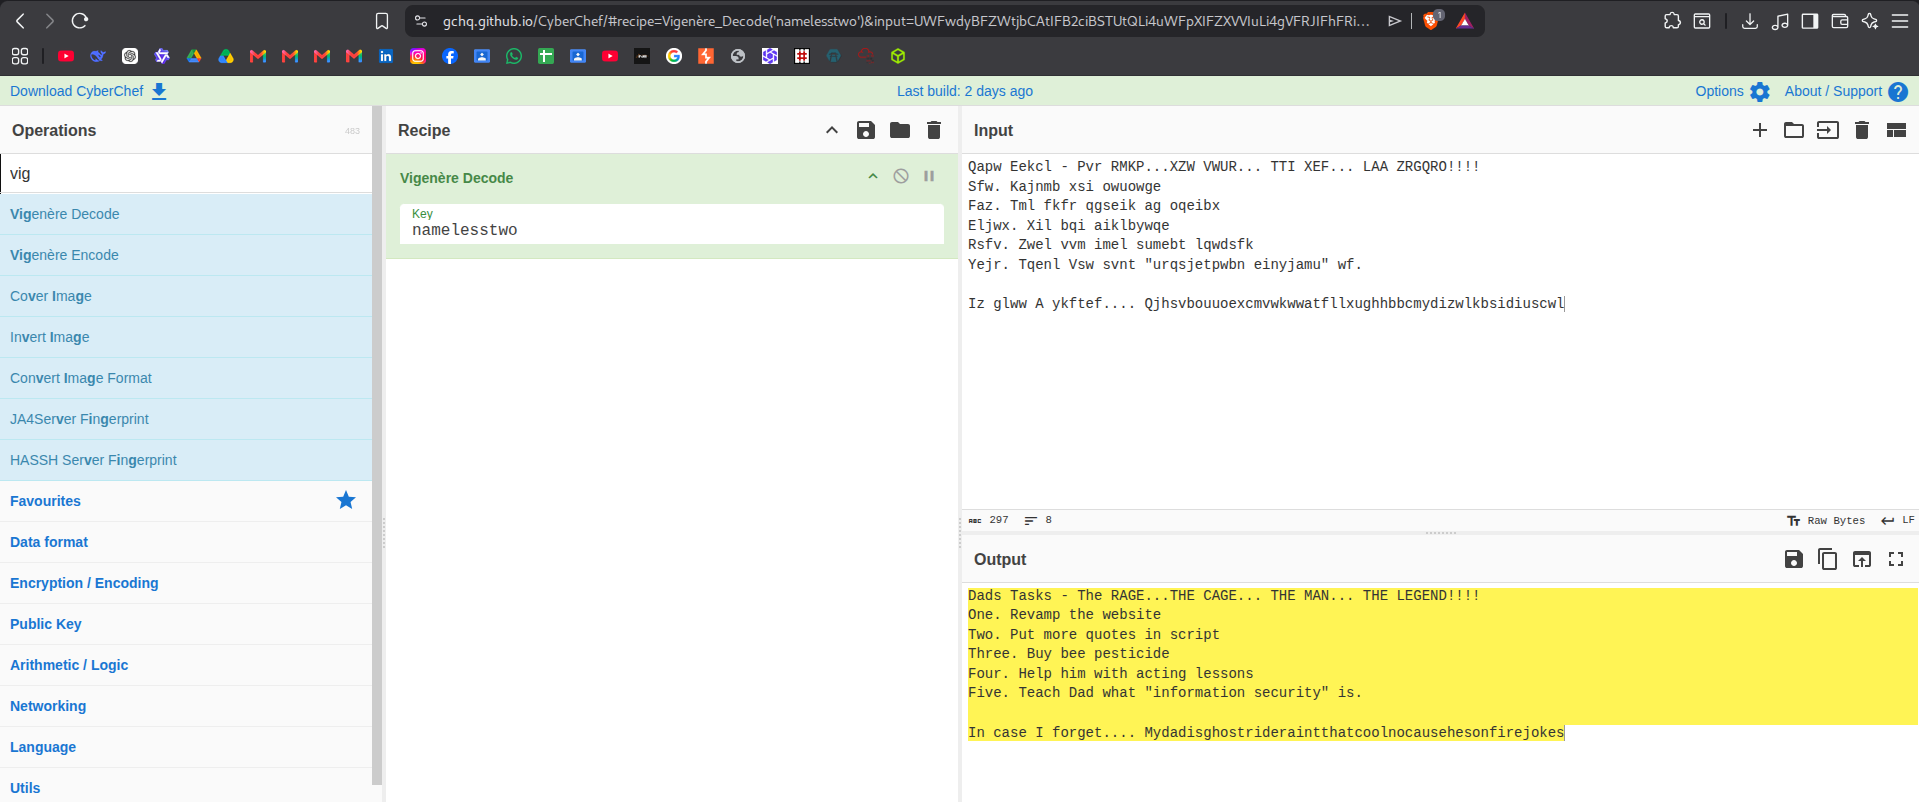
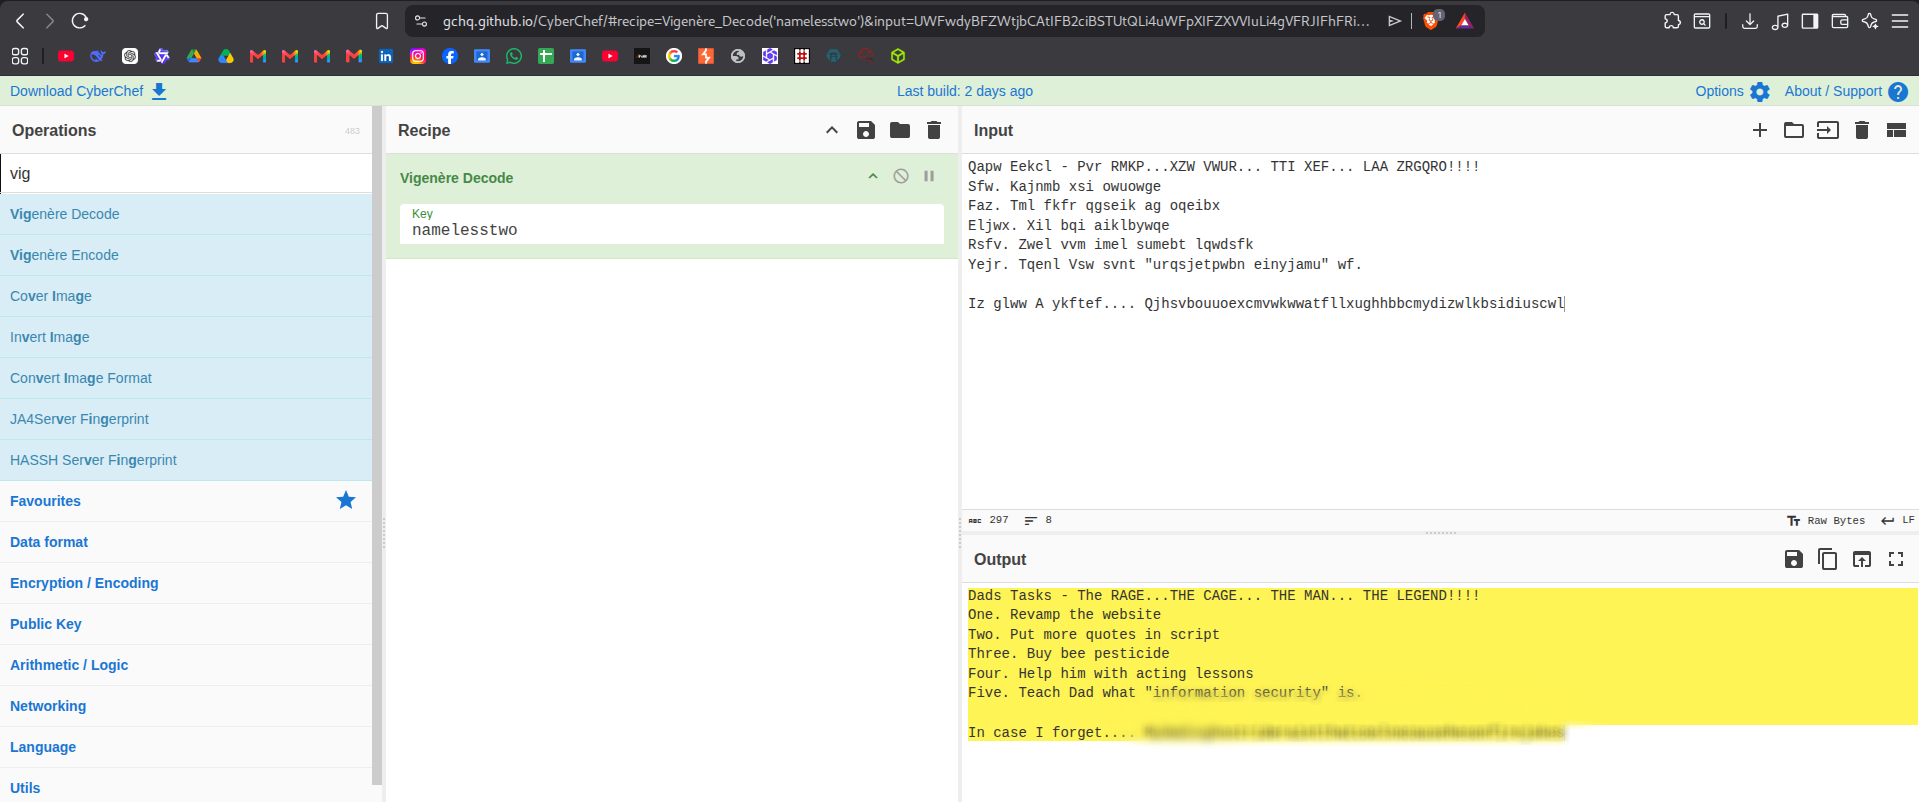
Publish Break Out The Cage

Changed region(s): [[0.5842, 0.904, 0.8301, 0.9352], [0.6149, 0.8416, 0.6764, 0.8728]]

diff --git a/Challenges/Break Out The Cage/README.md b/Challenges/Break Out The Cage/README.md
@@ -82,10 +82,6 @@ Success!
 
 ![](images/Pasted%20image%2020260624152933.png)
 
-The decrypted password is:
-
-> **Mydadisghostrideraintthatcoolnocausehesonfirejokes**
-
 The TryHackMe room mentions that this password belongs to **Weston**, so let's try SSH.
 
 ![](images/Pasted%20image%2020260624153349.png)
